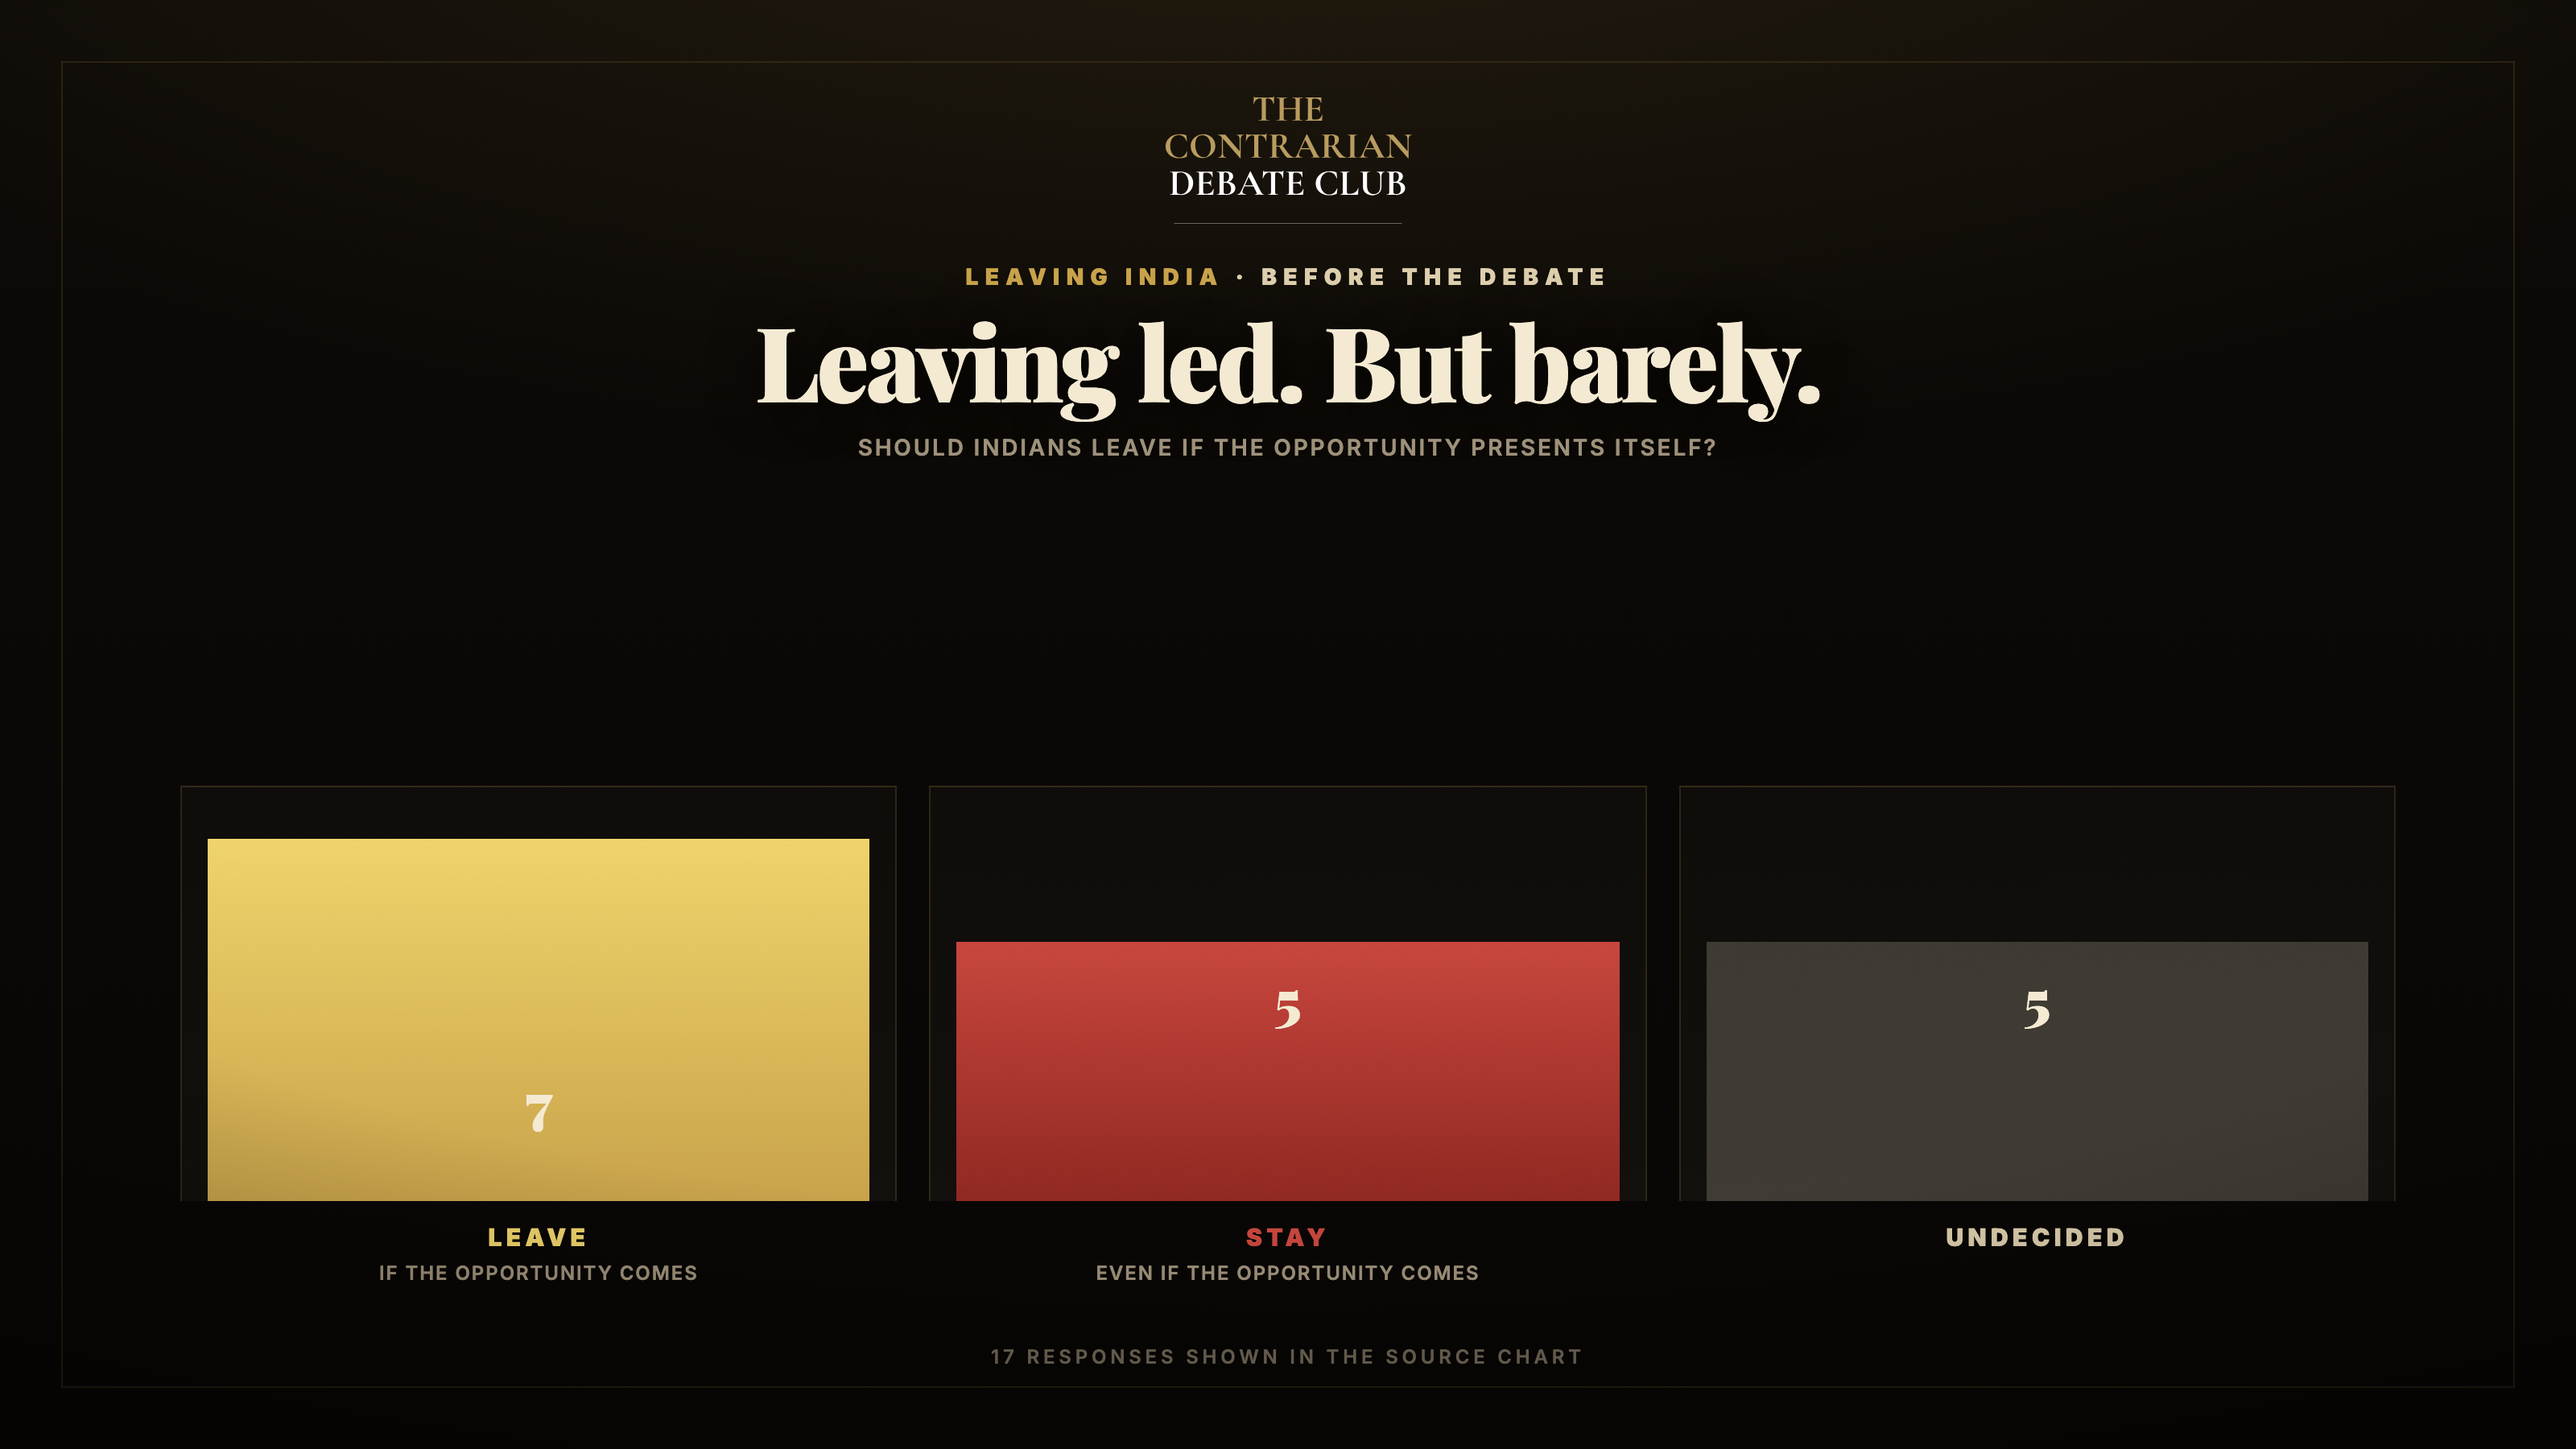
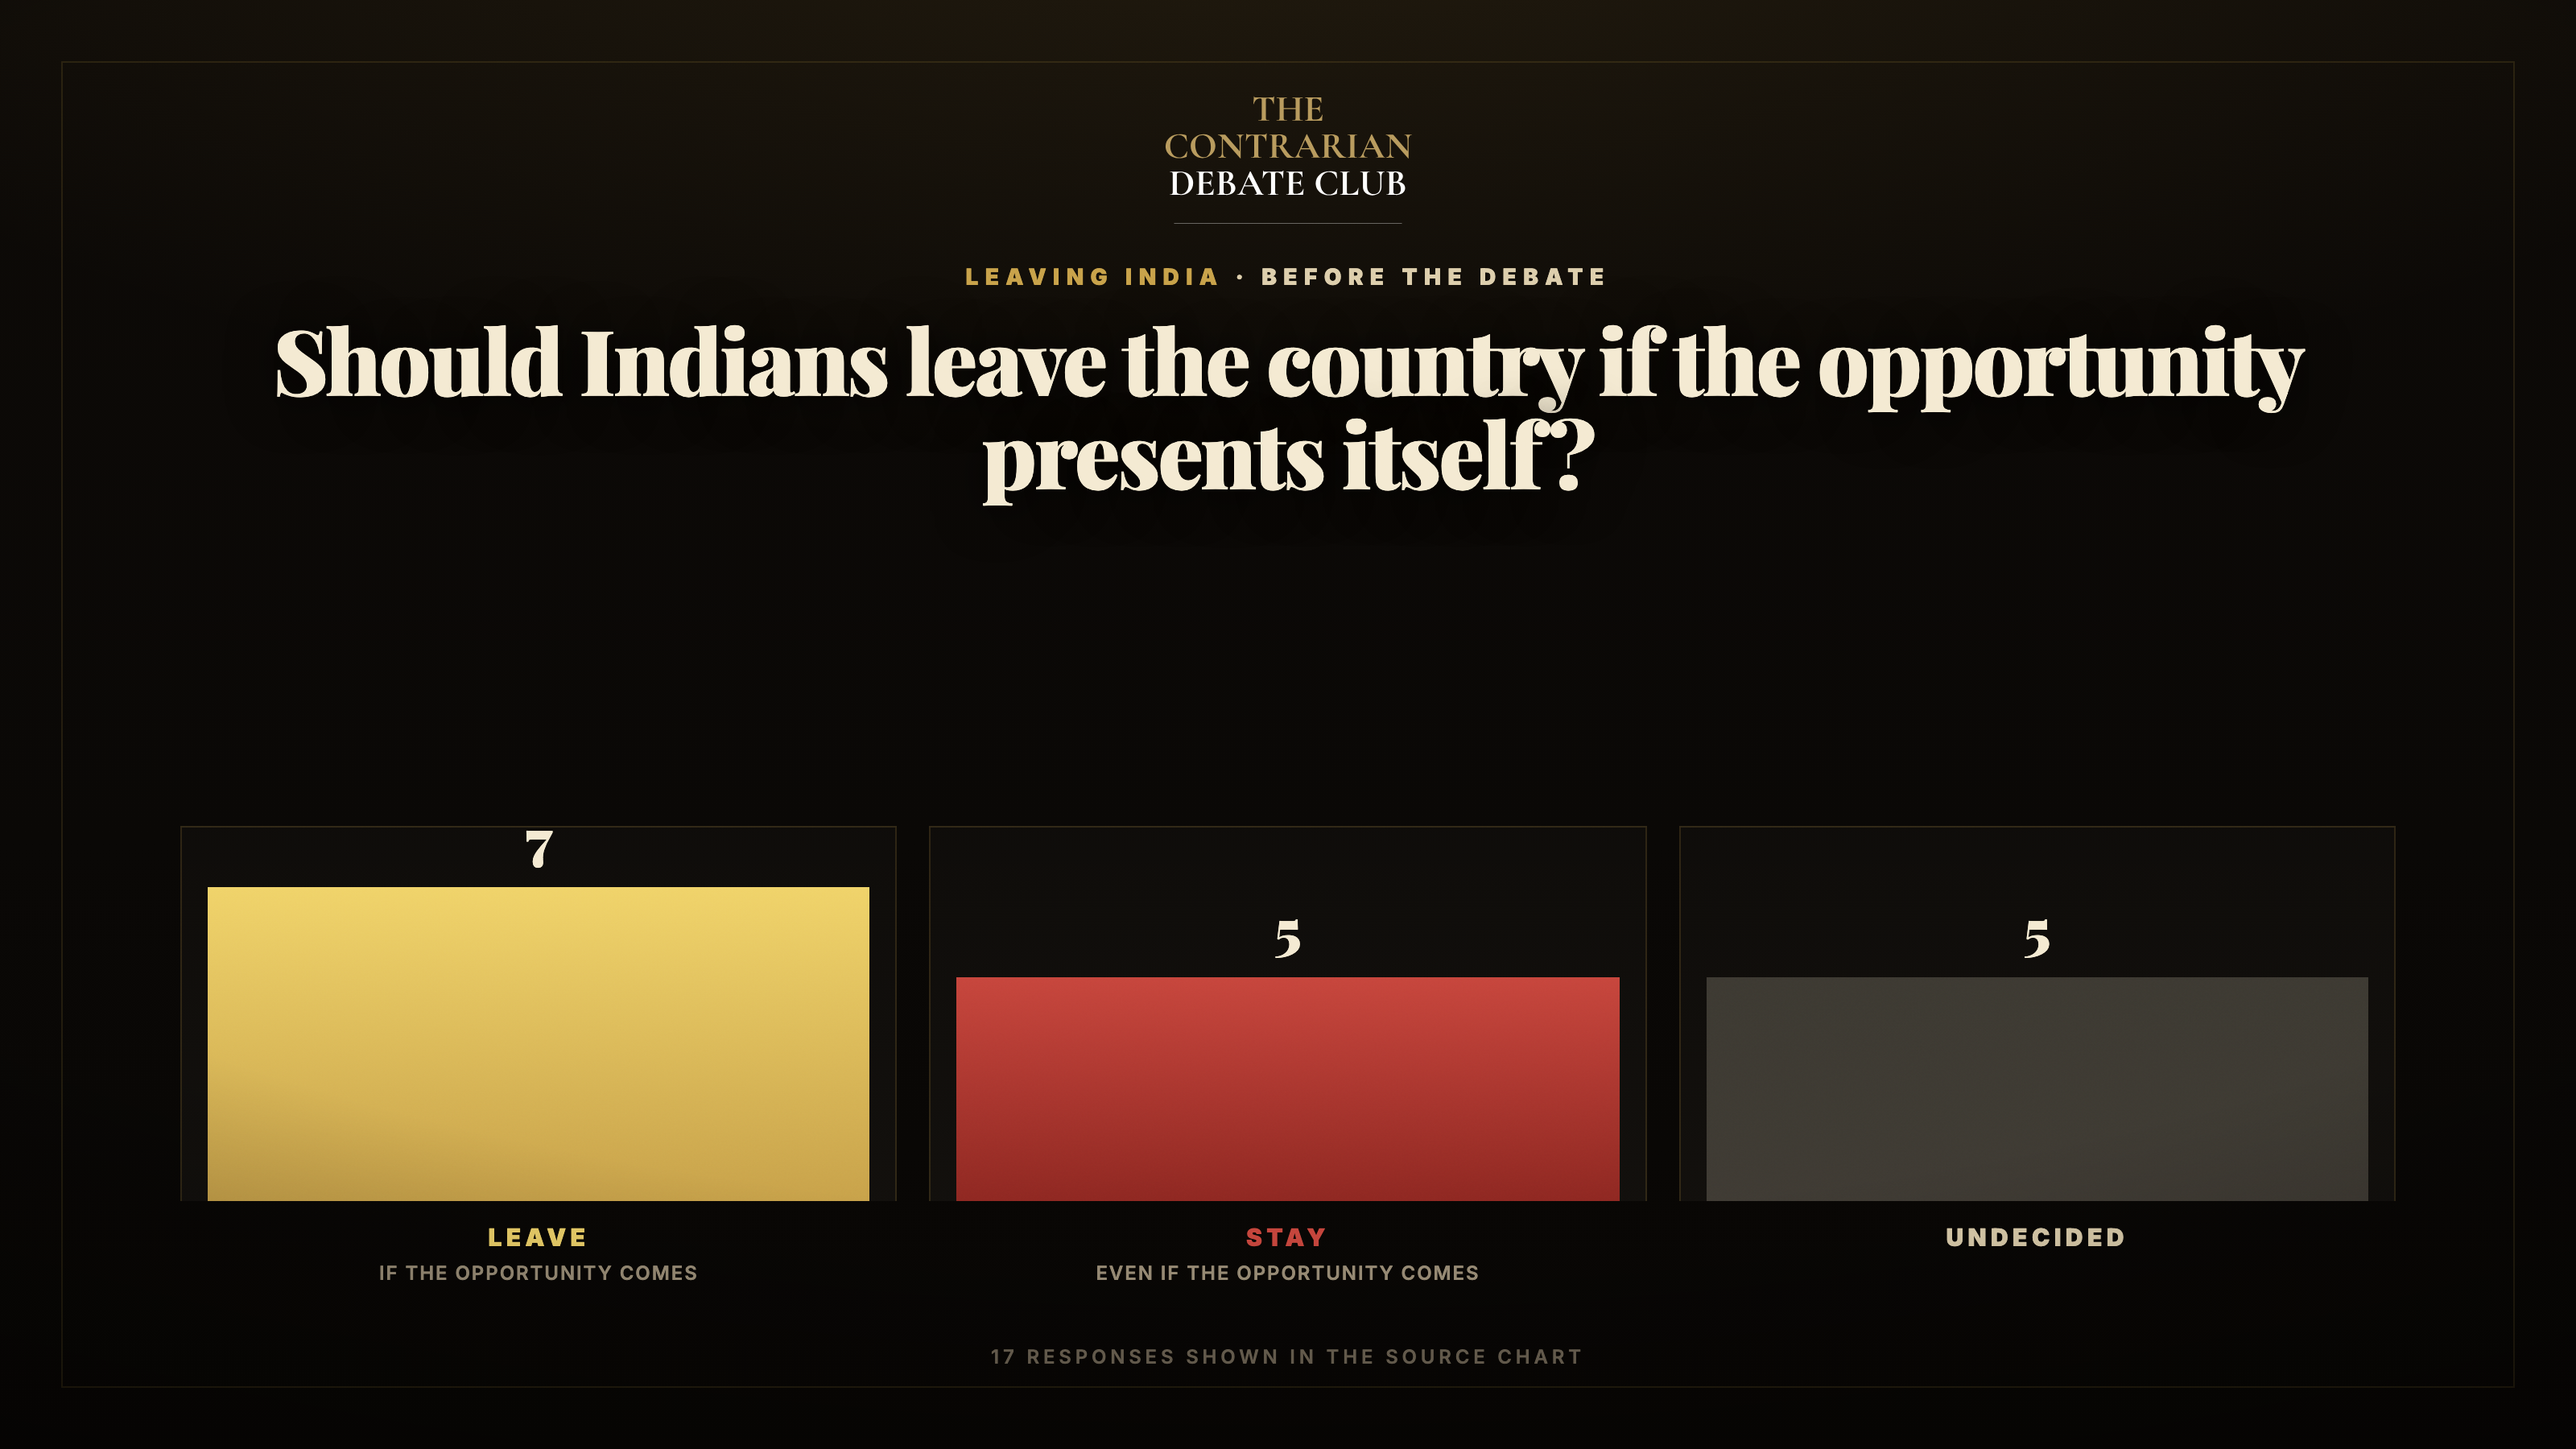
fix: correct vote graphic hierarchy

diff --git a/posters/works/2026-08-10-leaving-india-vote/vote.html b/posters/works/2026-08-10-leaving-india-vote/vote.html
@@ -137,26 +137,16 @@
     .topic b { color: var(--parchment); font-weight: 700; }
 
     .result {
-      max-width: 1250px;
-      margin: 12px 0 0;
+      max-width: 1320px;
+      margin: 14px 0 0;
       color: var(--ivory);
       font-family: var(--serif);
-      font-size: 64px;
+      font-size: 56px;
       font-weight: 900;
       letter-spacing: -0.025em;
-      line-height: 1;
+      line-height: 1.04;
       text-align: center;
       text-shadow: 0 2px 30px rgba(0, 0, 0, 0.8);
-    }
-
-    .question {
-      margin-top: 13px;
-      color: var(--muted);
-      font-size: 14px;
-      font-weight: 600;
-      letter-spacing: 0.1em;
-      text-align: center;
-      text-transform: uppercase;
     }
 
     .chart {
@@ -164,7 +154,7 @@
       grid-template-columns: repeat(3, 1fr);
       gap: 20px;
       width: 100%;
-      height: 325px;
+      height: 300px;
       margin: auto 0 0;
     }
 
@@ -196,10 +186,12 @@
       font-weight: 700;
       line-height: 1;
       text-align: center;
+      bottom: calc(var(--bar-height) + 14px);
     }
 
     .bar {
       width: calc(100% - 32px);
+      height: var(--bar-height);
       min-height: 5px;
     }
 
@@ -257,13 +249,12 @@
         <div class="body">
           <img class="logo" src="../../src/core/brand/logo-dark.svg" alt="The Contrarian Debate Club" />
           <div class="topic">Leaving India <b>&middot; Before the debate</b></div>
-          <h1 class="result">Leaving led. But barely.</h1>
-          <div class="question">Should Indians leave if the opportunity presents itself?</div>
+          <h1 class="result">Should Indians leave the country if the opportunity presents itself?</h1>
           <div class="chart">
             <div class="choice leave">
-              <div class="plot">
-                <span class="value" style="bottom: calc(100% - 225px + 13px)">7</span>
-                <div class="bar" style="height: 225px"></div>
+              <div class="plot" style="--bar-height: 195px">
+                <span class="value">7</span>
+                <div class="bar"></div>
               </div>
               <div class="choice-label">
                 <span class="label">Leave</span>
@@ -271,9 +262,9 @@
               </div>
             </div>
             <div class="choice stay">
-              <div class="plot">
-                <span class="value" style="bottom: calc(100% - 161px + 13px)">5</span>
-                <div class="bar" style="height: 161px"></div>
+              <div class="plot" style="--bar-height: 139px">
+                <span class="value">5</span>
+                <div class="bar"></div>
               </div>
               <div class="choice-label">
                 <span class="label">Stay</span>
@@ -281,9 +272,9 @@
               </div>
             </div>
             <div class="choice undecided">
-              <div class="plot">
-                <span class="value" style="bottom: calc(100% - 161px + 13px)">5</span>
-                <div class="bar" style="height: 161px"></div>
+              <div class="plot" style="--bar-height: 139px">
+                <span class="value">5</span>
+                <div class="bar"></div>
               </div>
               <div class="choice-label">
                 <span class="label">Undecided</span>
@@ -301,13 +292,12 @@
         <div class="body">
           <img class="logo" src="../../src/core/brand/logo-dark.svg" alt="The Contrarian Debate Club" />
           <div class="topic">Leaving India <b>&middot; After the debate</b></div>
-          <h1 class="result">The undecided disappeared.</h1>
-          <div class="question">Should Indians leave if the opportunity presents itself?</div>
+          <h1 class="result">Should Indians leave the country if the opportunity presents itself?</h1>
           <div class="chart">
             <div class="choice leave">
-              <div class="plot">
-                <span class="value" style="bottom: calc(100% - 225px + 13px)">70%</span>
-                <div class="bar" style="height: 225px"></div>
+              <div class="plot" style="--bar-height: 195px">
+                <span class="value">70%</span>
+                <div class="bar"></div>
               </div>
               <div class="choice-label">
                 <span class="label">Leave</span>
@@ -315,9 +305,9 @@
               </div>
             </div>
             <div class="choice stay">
-              <div class="plot">
-                <span class="value" style="bottom: calc(100% - 96px + 13px)">30%</span>
-                <div class="bar" style="height: 96px"></div>
+              <div class="plot" style="--bar-height: 84px">
+                <span class="value">30%</span>
+                <div class="bar"></div>
               </div>
               <div class="choice-label">
                 <span class="label">Stay</span>
@@ -325,9 +315,9 @@
               </div>
             </div>
             <div class="choice undecided">
-              <div class="plot">
-                <span class="value" style="bottom: 14px">0%</span>
-                <div class="bar" style="height: 5px"></div>
+              <div class="plot" style="--bar-height: 5px">
+                <span class="value">0%</span>
+                <div class="bar"></div>
               </div>
               <div class="choice-label">
                 <span class="label">Undecided</span>
